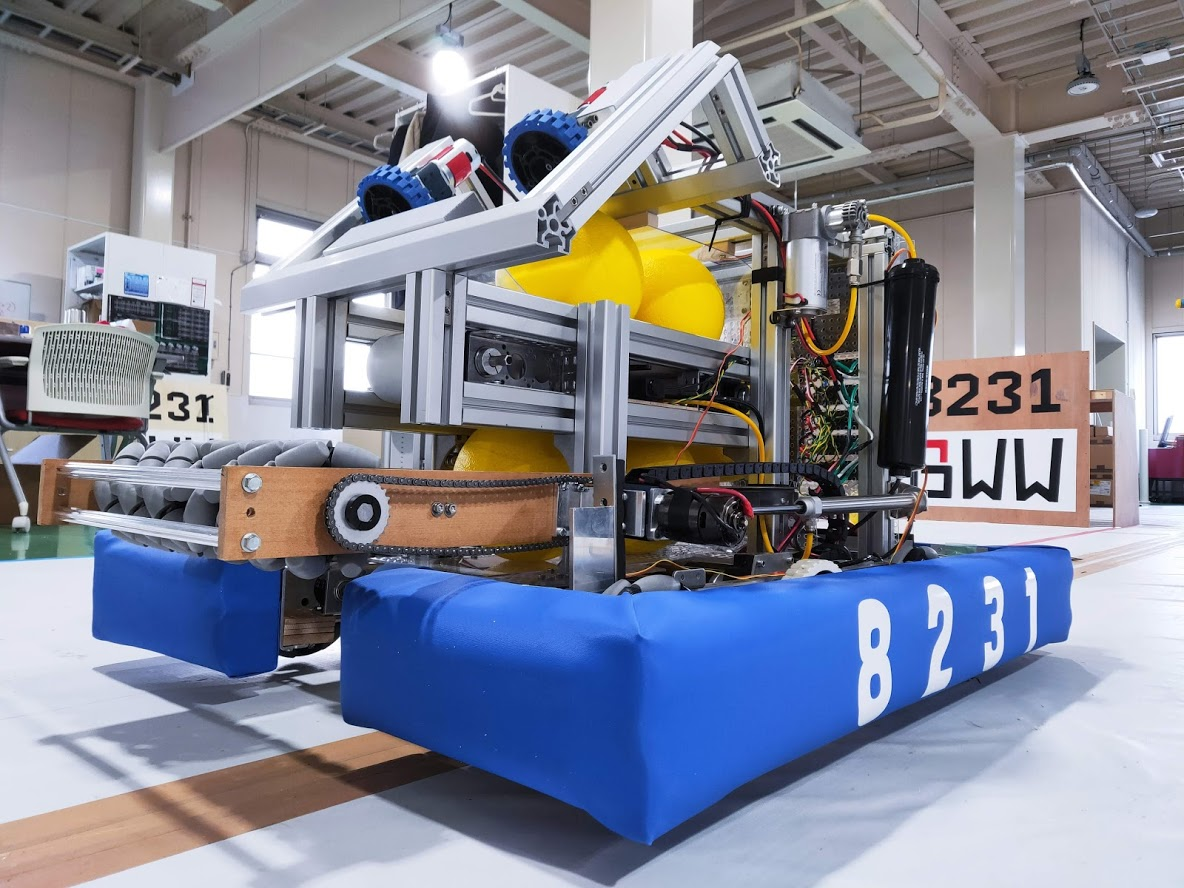
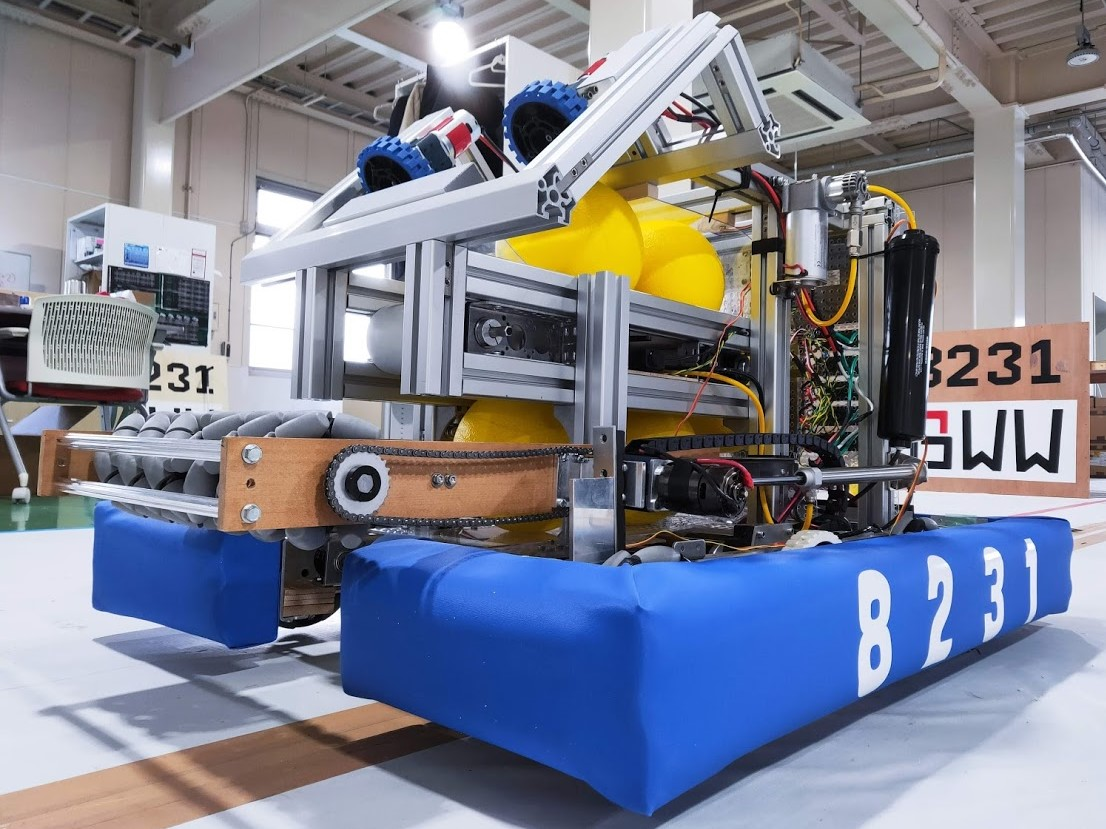
画像のサイズ変更

diff --git a/css/index.css b/css/index.css
@@ -268,7 +268,7 @@ header img {
 }
 
 .content-text {
-    margin: auto 8%;
+    margin: auto 7%;
     color: #212121;
 }
 
@@ -279,7 +279,7 @@ header img {
 
 .content-text p {
     margin-top: 32px;
-    font-size: 16px;
+    font-size: 18px;
 }
 
 .content-button {
